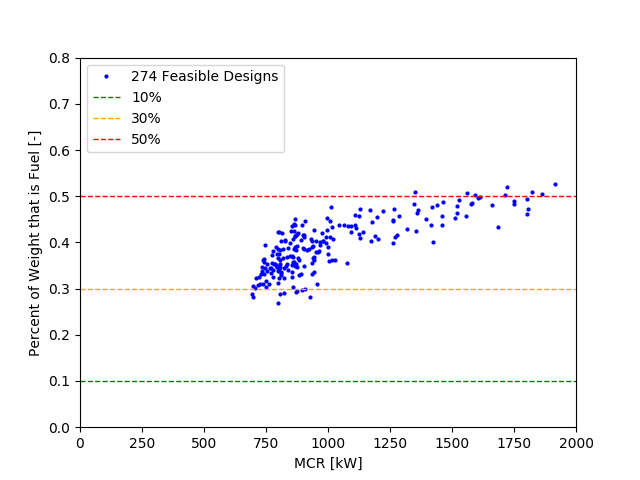
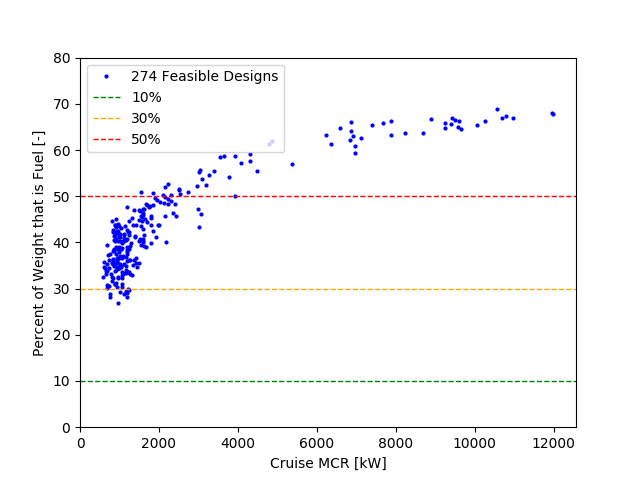
Modified some plots and cleaned up scripts

diff --git a/musvDOEv3casePlotter.py b/musvDOEv3casePlotter.py
@@ -61,7 +61,7 @@ with open('musvDOEv3cases.csv', newline='') as csv_file:
                     fuelWt.append(row[10])
                     etaRun.append((row[11]*100)) #convert to percentage
                     nStarts.append(row[12])
-                    percentFuel.append(row[10]/row[6])
+                    percentFuel.append((row[10]/row[6])*100)  #convert to percentage
                     PBcru.append(PBcruise)
                     PBspr.append(PBspr)
                     PBratio.append(PBsprint/PBcruise)
@@ -159,8 +159,8 @@ plt.plot(nStarts, etaRun, color='blue', marker='o', linewidth=0, markersize=2, l
 
 # Create legend, labels
 plt.legend(loc='upper left')
-#plt.xlim(100, 600)
-#plt.ylim(100, 600)
+plt.xlim(0, 200)
+plt.ylim(0, 1.2)
 plt.xlabel('Number of Starts [-]')
 plt.ylabel('Runtime [%]')
 
@@ -195,7 +195,7 @@ plt.axhline(y=50, color='red', linewidth=1, linestyle='dashed')
 # Create legend, labels
 plt.legend(loc='upper left')
 plt.xlim(20, 55)
-plt.ylim(-100, 300)
+plt.ylim(-100, 100)
 plt.xlabel('Length [m]')
 plt.ylabel('Excess Displacement [MT]')
 
@@ -212,8 +212,8 @@ plt.axhline(y=.50, color='red', linewidth=1, linestyle='dashed')
 
 # Create legend, labels
 plt.legend(loc='upper left')
-plt.xlim(0, 600)
-plt.ylim(-1, 3)
+plt.xlim(0, 800)
+plt.ylim(-.25, 4)
 plt.xlabel('Displacement [MT]')
 plt.ylabel('GMT [m]')
 
@@ -223,17 +223,17 @@ plt.clf()
 
 #----
 # plot fuel weight and MCR
-plt.plot(MCR, percentFuel, color='blue', marker='o', linewidth=0, markersize=2, label=(str(numFeasible) + ' Feasible Designs'))
-plt.axhline(y=.1, color='green', linewidth=1, linestyle='dashed', label='10%')
-plt.axhline(y=.3, color='orange', linewidth=1, linestyle='dashed', label='30%')
-plt.axhline(y=.5, color='red', linewidth=1, linestyle='dashed', label='50%')
+plt.plot(PBcru, percentFuel, color='blue', marker='o', linewidth=0, markersize=2, label=(str(numFeasible) + ' Feasible Designs'))
+plt.axhline(y=10, color='green', linewidth=1, linestyle='dashed', label='10%')
+plt.axhline(y=30, color='orange', linewidth=1, linestyle='dashed', label='30%')
+plt.axhline(y=50, color='red', linewidth=1, linestyle='dashed', label='50%')
 
 
 # Create legend, labels
 plt.legend(loc='upper left')
-plt.xlim(0, 2000)
-plt.ylim(0, 0.8)
-plt.xlabel('MCR [kW]')
+#plt.xlim(0, 2000)
+plt.ylim(0, 80)
+plt.xlabel('Cruise MCR [kW]')
 plt.ylabel('Percent of Weight that is Fuel [-]')
 
 # Save and close figure
@@ -242,7 +242,7 @@ plt.clf()
 
 #----
 # plot displacement and power ratio
-plt.plot(Disp, PBratio, color='blue', marker='o', linewidth=0, markersize=2, label=(str(numFeasible) + ' Feasible Designs'))
+plt.plot(PBcru, PBratio, color='blue', marker='o', linewidth=0, markersize=2, label=(str(numFeasible) + ' Feasible Designs'))
 plt.axhline(y=1, color='green', linewidth=1, linestyle='dashed', label='Equal')
 plt.axhline(y=1.5, color='orange', linewidth=1, linestyle='dashed', label='1.5 times')
 plt.axhline(y=2, color='red', linewidth=1, linestyle='dashed', label='2 times')
@@ -250,11 +250,11 @@ plt.axhline(y=2, color='red', linewidth=1, linestyle='dashed', label='2 times')
 
 # Create legend, labels
 plt.legend(loc='lower left')
-plt.xlim(0, 1000)
+#plt.xlim(0, 2000)
 plt.ylim(0, 2.5)
-plt.xlabel('MCR [kW]')
+plt.xlabel('Cruise MCR [kW]')
 plt.ylabel('Sprint to Cruise Power Ratio [-]')
 
 # Save and close figure
-plt.savefig('disp_powratio.png')
+plt.savefig('mcr_powratio.png')
 plt.clf()

diff --git a/musvDOEv3.py b/musvDOEv3.py
@@ -24,7 +24,7 @@ indeps.add_output('B', 5, units='m') #meters
 indeps.add_output('fwCap', 300, units='MJ') #megajoules
 
 # add the fuel weight component from Fuel.py
-prob.model.add_subsystem('fuel', Fuel()) #, promotes=['Cb','T','L','B','fuelWt','MCR','etaRun','nStarts'])
+prob.model.add_subsystem('fuel', Fuel())
 # add the weights component from Weights.py
 prob.model.add_subsystem('wts', WeightsNoFuel())
 # add the stability component from Stability.py
@@ -58,12 +58,6 @@ prob.model.add_design_var('fuel.fuelWt')
 prob.model.add_design_var('fuel.MCR')
 prob.model.add_design_var('fuel.etaRun')
 prob.model.add_design_var('fuel.nStarts')
-
-# OBJECTIVES NOT USED WITH DOEDriver
-# set objective to be minimizing weight
-# prob.model.add_objective('wts.Wt')
-# set objective to be minimizing excess displacement
-# prob.model.add_objective('const.excess')
 
 # set driver for design of experiment
 #prob.driver = om.DOEDriver(om.UniformGenerator(num_samples=10000))
